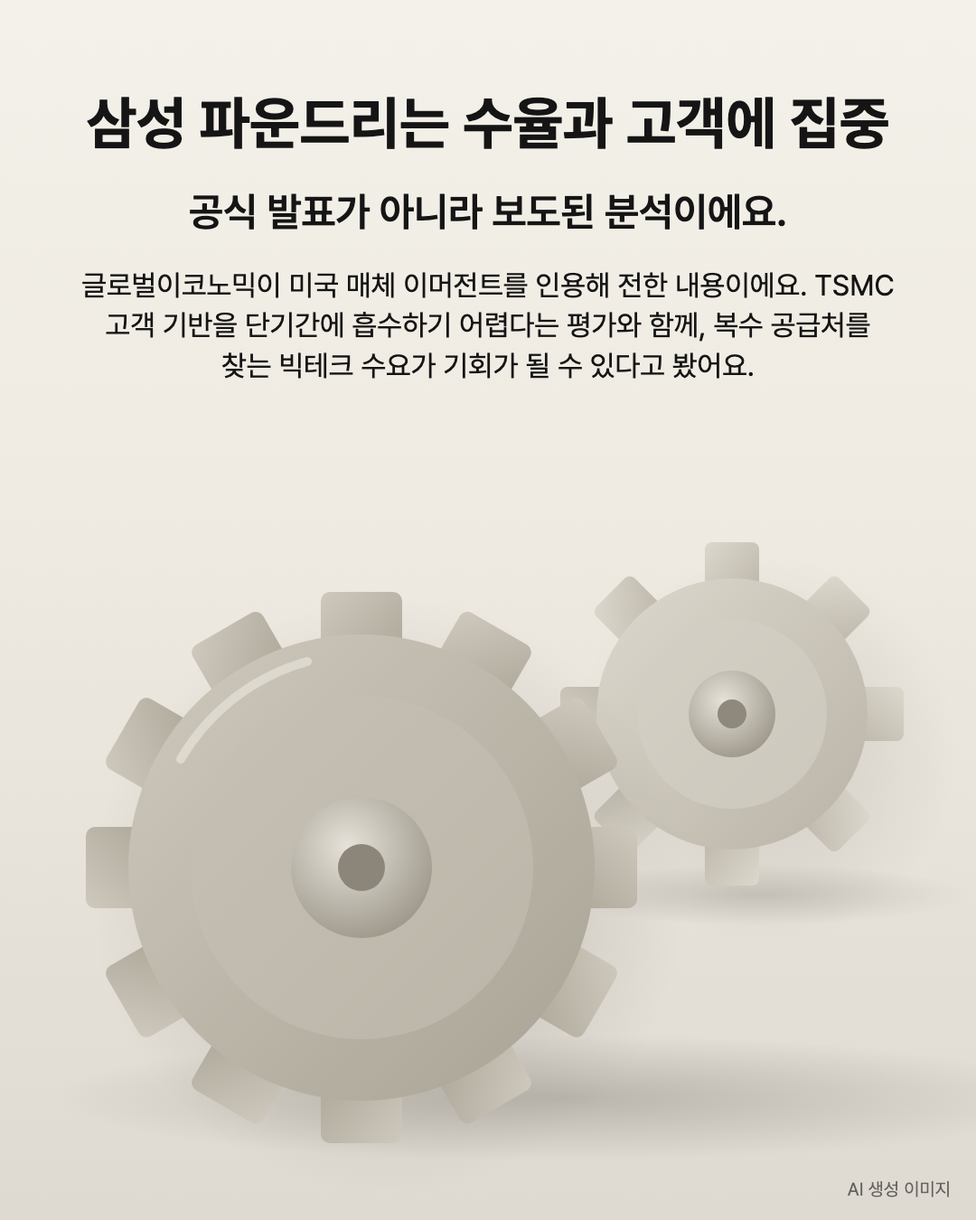
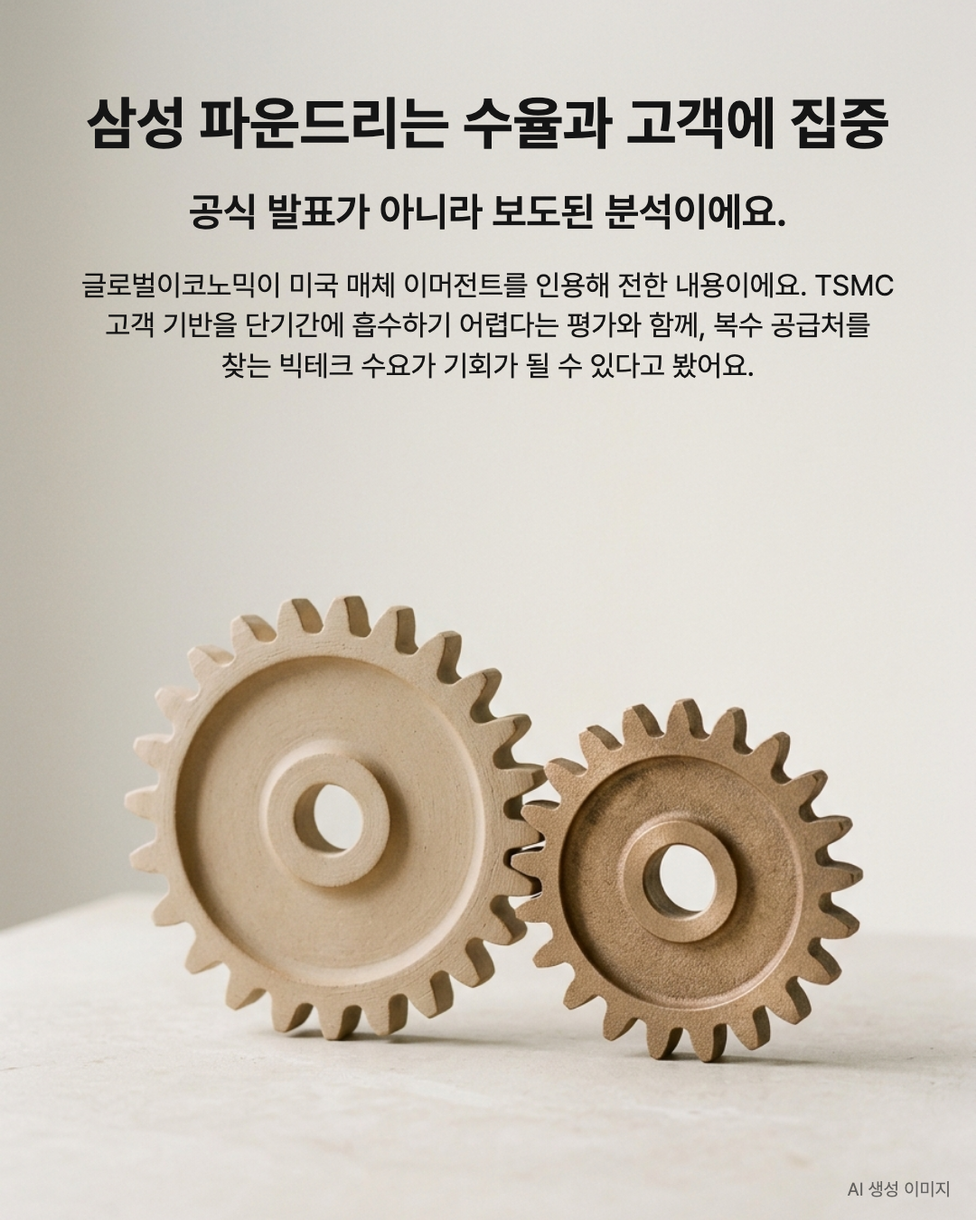
docs(card-news): README 카드 예시 맨 위에 지원사업·공모전, 반도체 5·6장 agy 그림으로 교체

diff --git a/submission/results/cards/support/image-credits.md b/submission/results/cards/support/image-credits.md
@@ -1,0 +1,100 @@
+# 이미지 사용 기록 — IT,AI 공모와 지원 사업
+
+- 결과 버전: v6
+- 배경 그림은 모두 생성 이미지예요. 실제 제품 화면이나 사건 사진이 아니에요. 생성 이미지라고 해서 저작권 문제가 없다고 단정하지 않아요.
+- 카드 안 글자는 그림에 그려 넣지 않고 앱이 따로 올렸어요(Pretendard, SIL OFL 1.1).
+
+## 카드 1 (cards/card_01.png)
+- 출처 종류: 생성 이미지
+- 도구: agy 1.4.7
+- 만든 시각: 2026-10-26T21:52:14+09:00
+- 원본 형식·크기: jpeg 896×1200
+- agy 대화 ID(앞 8자리): 67c2c7cf
+- 카드 안 표기: 오른쪽 아래 "AI 생성 이미지"
+- 요청 문장:
+
+    내장 이미지 생성 도구로 카드뉴스 배경 그림 한 장을 만들어 주세요 (카드 1/5).
+    - 명령을 실행하지 말고 이미지 생성 도구만 바로 쓰세요. 폴더나 파일을 확인할 필요 없어요.
+    - 세로 4:5 비율이에요.
+    - 장면: 책상 위에 열린 노트북 하나와 그 옆의 작은 새싹 화분을 비스듬한 각도로 가까이 잡은 구도, 앞쪽 물건은 크게 뒤쪽은 멀리 보이게 배치, 글자를 올릴 빈 공간은 상단
+    - 모든 카드 공통 그림체: 잡지 화보 같은 정물 사진. 밝은 아이보리·연회색 배경에 물건 하나, 부드러운 자연광과 옅은 그림자, 채도 낮은 중성색, 장식 없는 넉넉한 여백
+    - 글자를 올릴 자리: 화면 위쪽 약 40%는 비워 두고 단순한 배경만 두세요.
+    - 그림 안에 글자·숫자·로고·워터마크를 넣지 마세요.
+    - 실제 제품 화면, 실존 인물, 보도 사진처럼 보이지 않게 그려 주세요.
+    - 만든 파일을 다른 곳으로 옮기거나 복사하지 마세요.
+
+## 카드 2 (cards/card_02.png)
+- 출처 종류: 생성 이미지
+- 도구: agy 1.4.7
+- 만든 시각: 2026-10-26T16:21:02+09:00
+- 원본 형식·크기: jpeg 896×1200
+- agy 대화 ID(앞 8자리): 607beb4c
+- 카드 안 표기: 오른쪽 아래 "AI 생성 이미지"
+- 요청 문장:
+
+    내장 이미지 생성 도구로 카드뉴스 배경 그림 한 장을 만들어 주세요 (카드 2/5).
+    - 명령을 실행하지 말고 이미지 생성 도구만 바로 쓰세요. 폴더나 파일을 확인할 필요 없어요.
+    - 세로 4:5 비율이에요.
+    - 장면: 로켓 모형 하나를 아래쪽에 크게 놓은 구도, 글자를 올릴 빈 공간은 상단
+    - 모든 카드 공통 그림체: 잡지 화보 같은 정물 사진. 밝은 아이보리·연회색 배경에 물건 하나, 부드러운 자연광과 옅은 그림자, 채도 낮은 중성색, 장식 없는 넉넉한 여백
+    - 글자를 올릴 자리: 화면 위쪽 약 40%는 비워 두고 단순한 배경만 두세요.
+    - 그림 안에 글자·숫자·로고·워터마크를 넣지 마세요.
+    - 실제 제품 화면, 실존 인물, 보도 사진처럼 보이지 않게 그려 주세요.
+    - 만든 파일을 다른 곳으로 옮기거나 복사하지 마세요.
+
+## 카드 3 (cards/card_03.png)
+- 출처 종류: 생성 이미지
+- 도구: agy 1.4.7
+- 만든 시각: 2026-10-26T21:53:21+09:00
+- 원본 형식·크기: jpeg 896×1200
+- agy 대화 ID(앞 8자리): f7e1a1f2
+- 카드 안 표기: 오른쪽 아래 "AI 생성 이미지"
+- 요청 문장:
+
+    내장 이미지 생성 도구로 카드뉴스 배경 그림 한 장을 만들어 주세요 (카드 3/5).
+    - 명령을 실행하지 말고 이미지 생성 도구만 바로 쓰세요. 폴더나 파일을 확인할 필요 없어요.
+    - 세로 4:5 비율이에요.
+    - 장면: 회로 무늬가 새겨진 두께감 있는 칩 하나와 그 옆에 놓인 연필 한 자루를 낮은 각도에서 가까이 잡은 구도, 칩은 하단 앞쪽에 배치, 글자를 올릴 빈 공간은 상단
+    - 모든 카드 공통 그림체: 잡지 화보 같은 정물 사진. 밝은 아이보리·연회색 배경에 물건 하나, 부드러운 자연광과 옅은 그림자, 채도 낮은 중성색, 장식 없는 넉넉한 여백
+    - 글자를 올릴 자리: 화면 위쪽 약 40%는 비워 두고 단순한 배경만 두세요.
+    - 그림 안에 글자·숫자·로고·워터마크를 넣지 마세요.
+    - 실제 제품 화면, 실존 인물, 보도 사진처럼 보이지 않게 그려 주세요.
+    - 만든 파일을 다른 곳으로 옮기거나 복사하지 마세요.
+
+## 카드 4 (cards/card_04.png)
+- 출처 종류: 생성 이미지
+- 도구: agy 1.4.7
+- 만든 시각: 2026-10-26T21:54:17+09:00
+- 원본 형식·크기: jpeg 896×1200
+- agy 대화 ID(앞 8자리): f391c89c
+- 카드 안 표기: 오른쪽 아래 "AI 생성 이미지"
+- 요청 문장:
+
+    내장 이미지 생성 도구로 카드뉴스 배경 그림 한 장을 만들어 주세요 (카드 4/5).
+    - 명령을 실행하지 말고 이미지 생성 도구만 바로 쓰세요. 폴더나 파일을 확인할 필요 없어요.
+    - 세로 4:5 비율이에요.
+    - 장면: 서랍이 여러 칸인 캐비닛 하나를 비스듬한 각도에서 보고 서랍 한두 칸이 앞으로 열려 있는 구도, 캐비닛은 아래쪽에 배치, 글자를 올릴 빈 공간은 상단
+    - 모든 카드 공통 그림체: 잡지 화보 같은 정물 사진. 밝은 아이보리·연회색 배경에 물건 하나, 부드러운 자연광과 옅은 그림자, 채도 낮은 중성색, 장식 없는 넉넉한 여백
+    - 글자를 올릴 자리: 화면 위쪽 약 40%는 비워 두고 단순한 배경만 두세요.
+    - 그림 안에 글자·숫자·로고·워터마크를 넣지 마세요.
+    - 실제 제품 화면, 실존 인물, 보도 사진처럼 보이지 않게 그려 주세요.
+    - 만든 파일을 다른 곳으로 옮기거나 복사하지 마세요.
+
+## 카드 5 (cards/card_05.png)
+- 출처 종류: 생성 이미지
+- 도구: agy 1.4.7
+- 만든 시각: 2026-10-26T21:55:15+09:00
+- 원본 형식·크기: jpeg 896×1200
+- agy 대화 ID(앞 8자리): fcd5026c
+- 카드 안 표기: 오른쪽 아래 "AI 생성 이미지"
+- 요청 문장:
+
+    내장 이미지 생성 도구로 카드뉴스 배경 그림 한 장을 만들어 주세요 (카드 5/5).
+    - 명령을 실행하지 말고 이미지 생성 도구만 바로 쓰세요. 폴더나 파일을 확인할 필요 없어요.
+    - 세로 4:5 비율이에요.
+    - 장면: 체크 표시가 있는 클립보드 하나를 약간 기울여 한쪽에 가까이 놓고 뒤쪽은 멀리 흐릿하게 보이는 구도, 글자를 올릴 빈 공간은 중앙
+    - 모든 카드 공통 그림체: 잡지 화보 같은 정물 사진. 밝은 아이보리·연회색 배경에 물건 하나, 부드러운 자연광과 옅은 그림자, 채도 낮은 중성색, 장식 없는 넉넉한 여백
+    - 글자를 올릴 자리: 화면 가운데 약 40%는 비워 두고 단순한 배경만 두세요.
+    - 그림 안에 글자·숫자·로고·워터마크를 넣지 마세요.
+    - 실제 제품 화면, 실존 인물, 보도 사진처럼 보이지 않게 그려 주세요.
+    - 만든 파일을 다른 곳으로 옮기거나 복사하지 마세요.

diff --git a/submission/results/cards/support/sources.md b/submission/results/cards/support/sources.md
@@ -1,0 +1,61 @@
+# 출처 기록 — IT,AI 공모와 지원 사업
+
+- 조사 기준 시각: 2026-10-26T16:07:42+09:00
+- 조사 범위: 오늘부터 6개월 (2026-10-26 ~ 2027-04-26)
+- 결과 버전: v6 · 최종 승인: 2026-10-26T21:55:56+09:00
+- '엔진이 열어 봄'은 조사 엔진이 그 주소를 실제로 열어 내용을 받았다는 뜻이에요. 지금도 열리는지는 확인하지 않았어요.
+
+## 카드 1. 창업·AI 지원사업 3건 (표지)
+- 파일: cards/card_01.png
+- 핵심 문장: 딥테크팁스 최대 15억 원부터 국비 AI 교육까지
+- 문구: 스토리보드에서 고쳤어요 (문구는 그대로 두고, 표지 그림을 입체감이 느껴지는 구도로 다시 그리도록 바꿨어요.)
+- 근거: [K-Startup 2026년 팁스(TIPS) 창업기업 지원계획 수정 공고](https://www.k-startup.go.kr/web/contents/bizpbanc-ongoing.do?schM=view&pbancSn=176076) — 공식, 게시일 미확인, 엔진이 열어 봄
+- 근거: [K-Startup 국민대학교 청년도약 인재양성 부트캠프 참가자 모집](https://www.k-startup.go.kr/web/contents/bizpbanc-ongoing.do?schM=view&pbancSn=179559) — 공식, 게시일 미확인, 엔진이 열어 봄
+- 근거: [K-Startup 2026년 중앙부처 및 지자체 창업지원사업 통합공고](https://www.k-startup.go.kr/web/contents/bizpbanc-ongoing.do?schM=view&pbancSn=175783) — 공식, 게시일 미확인, 엔진이 열어 봄
+
+## 카드 2. 2026년 팁스(TIPS) 창업기업 지원 (본문)
+- 파일: cards/card_02.png
+- 핵심 문장: 팁스 최대 8억 원 · 딥테크팁스 최대 15억 원 · 연계사업 각 최대 1.5억 원
+- 본문: 대상: 팁스 운영사의 투자·추천을 받은 (예비)창업기업
+마감: 12월 31일 18:00 (D-66 · 10/26 기준)
+신청: K-Startup 온라인 접수
+- 문구: 스토리보드 그대로
+- 마감: 2026-12-31 (confirmed) · 근거: K-Startup 공고 신청기간 2026.03.19 09:00 ~ 2026.12.31 18:00
+- 금액: 팁스 최대 8억 원 · 딥테크팁스 최대 15억 원 · 연계사업 각 최대 1.5억 원 · 신청: K-Startup 온라인 접수
+- 공식 공고문: https://www.k-startup.go.kr/web/contents/bizpbanc-ongoing.do?schM=view&pbancSn=176076
+- 근거: [K-Startup 2026년 팁스(TIPS) 창업기업 지원계획 수정 공고](https://www.k-startup.go.kr/web/contents/bizpbanc-ongoing.do?schM=view&pbancSn=176076) — 공식, 게시일 미확인, 엔진이 열어 봄
+
+## 카드 3. 국민대 청년도약 AI 부트캠프 (본문)
+- 파일: cards/card_03.png
+- 핵심 문장: 교육비 전액 국비 · 완주 장학금 최대 20만 원 · 최대 200만 원 규모 혜택
+- 본문: 대상: 만 19~34세 미취업 청년(취준생·예비창업자·장기휴학생), 재학생·재직자 제외
+마감: 11월 19일 23:59 (D-24 · 10/26 기준)
+신청: 국민대 AX벤처 실전인재양성 사업단 온라인 접수(axkookmin.com)
+- 문구: 스토리보드에서 고쳤어요 (문구는 그대로 두고, 칩과 연필 그림을 입체감이 느껴지는 구도로 다시 그리도록 바꿨어요.)
+- 마감: 2026-11-19 (confirmed) · 근거: K-Startup 공고 신청기간 2026.10.19 09:00 ~ 2026.11.19 23:59
+- 금액: 교육비 전액 국비 · 완주 장학금 최대 20만 원 · 최대 200만 원 규모 혜택 · 신청: 국민대 AX벤처 실전인재양성 사업단 온라인 접수(axkookmin.com)
+- 공식 공고문: https://www.k-startup.go.kr/web/contents/bizpbanc-ongoing.do?schM=view&pbancSn=179559
+- 근거: [K-Startup 국민대학교 청년도약 인재양성 부트캠프 참가자 모집](https://www.k-startup.go.kr/web/contents/bizpbanc-ongoing.do?schM=view&pbancSn=179559) — 공식, 게시일 미확인, 엔진이 열어 봄
+
+## 카드 4. 2026 창업지원사업 통합공고 (본문)
+- 파일: cards/card_04.png
+- 핵심 문장: 각 지원사업 모집 공고문 참고
+- 본문: 대상: 대상·업력 '전체' 표기, 세부 조건은 각 사업 공고문 기준
+마감: 12월 31일 23:59 (D-66 · 10/26 기준)
+신청: K-Startup에서 개별 사업 공고문별로 신청
+- 문구: 스토리보드에서 고쳤어요 (문구는 그대로 두고, 캐비닛 그림을 서랍이 열려 깊이가 보이는 입체적 구도로 다시 그리도록 바꿨어요.)
+- 마감: 2026-12-31 (confirmed) · 근거: K-Startup 통합공고 게시기간 2025.12.19 13:00 ~ 2026.12.31 23:59
+- 금액: 각 지원사업 모집 공고문 참고 · 신청: K-Startup에서 개별 사업 공고문별로 신청
+- 공식 공고문: https://www.k-startup.go.kr/web/contents/bizpbanc-ongoing.do?schM=view&pbancSn=175783
+- 근거: [K-Startup 2026년 중앙부처 및 지자체 창업지원사업 통합공고](https://www.k-startup.go.kr/web/contents/bizpbanc-ongoing.do?schM=view&pbancSn=175783) — 공식, 게시일 미확인, 엔진이 열어 봄
+
+## 카드 5. 마감순 정리 (요약)
+- 파일: cards/card_05.png
+- 핵심 문장: 지금 지원 가능 3 · 곧 열릴 예정 0
+- 본문: 11/19 마감 · 국민대 청년도약 AI 부트캠프
+12/31 마감 · 2026년 팁스(TIPS) 창업기업…
+12/31 마감 · 2026 창업지원사업 통합공고
+- 문구: 스토리보드에서 고쳤어요 (문구는 그대로 두고, 클립보드 그림을 입체감이 느껴지는 구도로 다시 그리도록 바꿨어요.)
+- 근거: [K-Startup 2026년 팁스(TIPS) 창업기업 지원계획 수정 공고](https://www.k-startup.go.kr/web/contents/bizpbanc-ongoing.do?schM=view&pbancSn=176076) — 공식, 게시일 미확인, 엔진이 열어 봄
+- 근거: [K-Startup 국민대학교 청년도약 인재양성 부트캠프 참가자 모집](https://www.k-startup.go.kr/web/contents/bizpbanc-ongoing.do?schM=view&pbancSn=179559) — 공식, 게시일 미확인, 엔진이 열어 봄
+- 근거: [K-Startup 2026년 중앙부처 및 지자체 창업지원사업 통합공고](https://www.k-startup.go.kr/web/contents/bizpbanc-ongoing.do?schM=view&pbancSn=175783) — 공식, 게시일 미확인, 엔진이 열어 봄

diff --git a/submission/results/cards/semiconductor-news/image-credits.md b/submission/results/cards/semiconductor-news/image-credits.md
@@ -1,6 +1,6 @@
 # 이미지 사용 기록 — 국내 반도체 최신뉴스
 
-- 결과 버전: v4
+- 결과 버전: v7
 - 배경 그림은 모두 생성 이미지예요. 실제 제품 화면이나 사건 사진이 아니에요. 생성 이미지라고 해서 저작권 문제가 없다고 단정하지 않아요.
 - 카드 안 글자는 그림에 그려 넣지 않고 앱이 따로 올렸어요(Pretendard, SIL OFL 1.1).
 
@@ -82,38 +82,38 @@
 
 ## 카드 5 (cards/card_05.png)
 - 출처 종류: 생성 이미지
-- 도구: Claude CLI (sonnet, SVG)
-- 만든 시각: 2026-10-26T15:03:35+09:00
-- 원본 형식·크기: svg 1080×1350
-- agy로 못 만들어 Claude CLI가 SVG로 대신 그렸어요: agy가 끝났는데 새로 만든 그림 파일을 찾지 못했어요.
+- 도구: agy 1.4.7
+- 만든 시각: 2026-10-26T21:56:20+09:00
+- 원본 형식·크기: jpeg 896×1200
+- agy 대화 ID(앞 8자리): 70a119cc
 - 카드 안 표기: 오른쪽 아래 "AI 생성 이미지"
 - 요청 문장:
 
-    설명용 카드뉴스 배경 그림을 SVG 코드로 그려 주세요 (카드 5/6).
-    - 결과의 svg 필드에 <svg>…</svg> 코드 하나만 넣어요.
-    - viewBox="0 0 1080 1350" (세로 4:5).
+    내장 이미지 생성 도구로 카드뉴스 배경 그림 한 장을 만들어 주세요 (카드 5/6).
+    - 명령을 실행하지 말고 이미지 생성 도구만 바로 쓰세요. 폴더나 파일을 확인할 필요 없어요.
+    - 세로 4:5 비율이에요.
     - 장면: 앞서 놓인 큰 톱니바퀴 하나와 뒤에 놓인 작은 톱니바퀴 하나가 맞물리려는 구도. 글자를 올릴 빈 공간은 위쪽.
     - 모든 카드 공통 그림체: 잡지 화보 같은 정물 사진. 밝은 아이보리·연회색 배경에 물건 하나, 부드러운 자연광과 옅은 그림자, 채도 낮은 중성색, 장식 없는 넉넉한 여백
-    - 글자를 올릴 자리: 화면 위쪽 약 40%는 비워 두고 단색이나 부드러운 그라디언트만 두세요.
-    - 도형(rect·circle·ellipse·path·polygon·line)과 그라디언트만 써요. <text>, 글자·숫자 모양, <image>, <script>, 외부 주소는 쓰지 마세요.
-    - SVG라서 사진은 흉내 내지 말고, 같은 색감의 단순한 물건 실루엣과 부드러운 그림자로 그려 주세요.
+    - 글자를 올릴 자리: 화면 위쪽 약 40%는 비워 두고 단순한 배경만 두세요.
+    - 그림 안에 글자·숫자·로고·워터마크를 넣지 마세요.
     - 실제 제품 화면, 실존 인물, 보도 사진처럼 보이지 않게 그려 주세요.
+    - 만든 파일을 다른 곳으로 옮기거나 복사하지 마세요.
 
 ## 카드 6 (cards/card_06.png)
 - 출처 종류: 생성 이미지
-- 도구: Claude CLI (sonnet, SVG)
-- 만든 시각: 2026-10-26T15:10:33+09:00
-- 원본 형식·크기: svg 1080×1350
-- agy로 못 만들어 Claude CLI가 SVG로 대신 그렸어요: agy가 끝났는데 새로 만든 그림 파일을 찾지 못했어요.
+- 도구: agy 1.4.7
+- 만든 시각: 2026-10-26T21:57:19+09:00
+- 원본 형식·크기: jpeg 896×1200
+- agy 대화 ID(앞 8자리): a2ba4ceb
 - 카드 안 표기: 오른쪽 아래 "AI 생성 이미지"
 - 요청 문장:
 
-    설명용 카드뉴스 배경 그림을 SVG 코드로 그려 주세요 (카드 6/6).
-    - 결과의 svg 필드에 <svg>…</svg> 코드 하나만 넣어요.
-    - viewBox="0 0 1080 1350" (세로 4:5).
+    내장 이미지 생성 도구로 카드뉴스 배경 그림 한 장을 만들어 주세요 (카드 6/6).
+    - 명령을 실행하지 말고 이미지 생성 도구만 바로 쓰세요. 폴더나 파일을 확인할 필요 없어요.
+    - 세로 4:5 비율이에요.
     - 장면: 양팔 저울 하나. 한쪽 접시에는 상자가 높이 쌓여 있고 다른 쪽은 살짝 떠 있는 구도. 글자를 올릴 빈 공간은 가운데 위쪽.
     - 모든 카드 공통 그림체: 잡지 화보 같은 정물 사진. 밝은 아이보리·연회색 배경에 물건 하나, 부드러운 자연광과 옅은 그림자, 채도 낮은 중성색, 장식 없는 넉넉한 여백
-    - 글자를 올릴 자리: 화면 가운데 약 40%는 비워 두고 단색이나 부드러운 그라디언트만 두세요.
-    - 도형(rect·circle·ellipse·path·polygon·line)과 그라디언트만 써요. <text>, 글자·숫자 모양, <image>, <script>, 외부 주소는 쓰지 마세요.
-    - SVG라서 사진은 흉내 내지 말고, 같은 색감의 단순한 물건 실루엣과 부드러운 그림자로 그려 주세요.
+    - 글자를 올릴 자리: 화면 가운데 약 40%는 비워 두고 단순한 배경만 두세요.
+    - 그림 안에 글자·숫자·로고·워터마크를 넣지 마세요.
     - 실제 제품 화면, 실존 인물, 보도 사진처럼 보이지 않게 그려 주세요.
+    - 만든 파일을 다른 곳으로 옮기거나 복사하지 마세요.

diff --git a/submission/results/cards/support/verify.md b/submission/results/cards/support/verify.md
@@ -1,0 +1,35 @@
+# 내보낸 파일 검사
+
+- 대상: cardnews_prj_f48d71b6ed7a_v6.zip
+- 통과 24 · 실패 0 · 사용자 확인 필요 3
+- 확인하지 못한 항목은 통과로 적지 않았어요.
+
+| 항목 | 대상 | 결과 | 내용 | 확인할 것 |
+|---|---|---|---|---|
+| 누락 | 전체 | 통과 | 카드 PNG 5장, sources.md, image-credits.md가 모두 있어요. |  |
+| 크기 | 카드 1 | 통과 | 1080×1350 PNG예요. |  |
+| 글자 잘림 | 카드 1 | 통과 | 렌더링 때 넘침이 없었고, ZIP 안 PNG가 그 렌더링 파일과 같아요. |  |
+| 출처 | 카드 1 | 통과 | 근거 3개 모두 조사 기록에 있고 엔진이 실제로 열어 봤어요. |  |
+| 크기 | 카드 2 | 통과 | 1080×1350 PNG예요. |  |
+| 글자 잘림 | 카드 2 | 통과 | 렌더링 때 넘침이 없었고, ZIP 안 PNG가 그 렌더링 파일과 같아요. |  |
+| 출처 | 카드 2 | 통과 | 근거 1개 모두 조사 기록에 있고 엔진이 실제로 열어 봤어요. |  |
+| 마감일 | 카드 2 | 통과 | 마감일(2026-12-31)을 공식 공고문(엔진이 열어 봄)에서 확인했고 오늘부터 6개월 안이에요. |  |
+| D-day | 카드 2 | 통과 | D-66: 앱이 2026-10-26 기준으로 계산한 값과 같아요. |  |
+| 금액 | 카드 2 | 통과 | 금액 문구(팁스 최대 8억 원 · 딥테크팁스 최대 15억 원 · 연계사업 각 최대 1.5억 원)가 엔진이 연 공식 공고문의 확인한 사실에 있어요. |  |
+| 크기 | 카드 3 | 통과 | 1080×1350 PNG예요. |  |
+| 글자 잘림 | 카드 3 | 통과 | 렌더링 때 넘침이 없었고, ZIP 안 PNG가 그 렌더링 파일과 같아요. |  |
+| 출처 | 카드 3 | 통과 | 근거 1개 모두 조사 기록에 있고 엔진이 실제로 열어 봤어요. |  |
+| 마감일 | 카드 3 | 통과 | 마감일(2026-11-19)을 공식 공고문(엔진이 열어 봄)에서 확인했고 오늘부터 6개월 안이에요. |  |
+| D-day | 카드 3 | 통과 | D-24: 앱이 2026-10-26 기준으로 계산한 값과 같아요. |  |
+| 금액 | 카드 3 | 통과 | 금액 문구(교육비 전액 국비 · 완주 장학금 최대 20만 원 · 최대 200만 원 규모 혜택)가 엔진이 연 공식 공고문의 확인한 사실에 있어요. |  |
+| 크기 | 카드 4 | 통과 | 1080×1350 PNG예요. |  |
+| 글자 잘림 | 카드 4 | 통과 | 렌더링 때 넘침이 없었고, ZIP 안 PNG가 그 렌더링 파일과 같아요. |  |
+| 출처 | 카드 4 | 통과 | 근거 1개 모두 조사 기록에 있고 엔진이 실제로 열어 봤어요. |  |
+| 마감일 | 카드 4 | 통과 | 마감일(2026-12-31)을 공식 공고문(엔진이 열어 봄)에서 확인했고 오늘부터 6개월 안이에요. |  |
+| D-day | 카드 4 | 통과 | D-66: 앱이 2026-10-26 기준으로 계산한 값과 같아요. |  |
+| 금액 | 카드 4 | 사용자 확인 필요 | 금액 문구(각 지원사업 모집 공고문 참고)를 엔진이 연 공식 공고문의 확인한 사실에서 찾지 못했어요. | 공식 공고문에서 금액을 확인해 주세요. |
+| 크기 | 카드 5 | 통과 | 1080×1350 PNG예요. |  |
+| 글자 잘림 | 카드 5 | 통과 | 렌더링 때 넘침이 없었고, ZIP 안 PNG가 그 렌더링 파일과 같아요. |  |
+| 출처 | 카드 5 | 통과 | 근거 3개 모두 조사 기록에 있고 엔진이 실제로 열어 봤어요. |  |
+| 출처 | 전체 | 사용자 확인 필요 | 카드 문구가 원문 내용과 맞는지는 사람이 확인하지 않았어요. 앱은 근거 주소가 조사 기록에 있고 엔진이 열어 봤는지만 봐요. | 카드마다 근거 링크를 열어 숫자·날짜·조건이 원문과 같은지 확인해 주세요. |
+| 출처 | 전체 | 사용자 확인 필요 | 원문 링크가 지금도 열리는지는 확인하지 않았어요(인터넷에 다시 접속하지 않음). | sources.md의 링크를 몇 개 열어 보고, 바뀌거나 사라진 글이 없는지 확인해 주세요. |

diff --git a/README.md b/README.md
@@ -2,7 +2,12 @@
 
 ## 만든 카드 예시
 
-실제 Claude CLI(조사·편집)와 agy(배경 그림)로 만들고, 최종 승인해 내보낸 카드예요. 카드 1장은 1080×1350 PNG이고, 글자는 그림에 그리지 않고 앱이 Pretendard로 따로 올렸어요. 카드를 누르면 원본 크기로 볼 수 있어요.
+지원사업·공모전 마감 카드와 최신뉴스 카드를 실제 Claude CLI(조사·편집)와 agy(배경 그림)로 만들고, 최종 승인해 내보낸 결과예요. 카드 1장은 1080×1350 PNG이고, 글자는 그림에 그리지 않고 앱이 Pretendard로 따로 올렸어요. 카드를 누르면 원본 크기로 볼 수 있어요.
+
+### 지원사업·공모전 (STEP 13 확장, 2026-10-26, 5장)
+<img src="submission/results/cards/support/card_01.png" width="180" alt="카드 1"> <img src="submission/results/cards/support/card_02.png" width="180" alt="카드 2"> <img src="submission/results/cards/support/card_03.png" width="180" alt="카드 3"> <img src="submission/results/cards/support/card_04.png" width="180" alt="카드 4"> <img src="submission/results/cards/support/card_05.png" width="180" alt="카드 5">
+
+출처·이미지 기록·검사 결과: [sources.md](submission/results/cards/support/sources.md) · [image-credits.md](submission/results/cards/support/image-credits.md) · [verify.md](submission/results/cards/support/verify.md) (통과 24 · 실패 0 · 확인 필요 3)
 
 ### AI 최신뉴스 (2026-10-26, 7장)
 <img src="submission/results/cards/ai-news/card_01.png" width="180" alt="카드 1"> <img src="submission/results/cards/ai-news/card_02.png" width="180" alt="카드 2"> <img src="submission/results/cards/ai-news/card_03.png" width="180" alt="카드 3"> <img src="submission/results/cards/ai-news/card_04.png" width="180" alt="카드 4"> <img src="submission/results/cards/ai-news/card_05.png" width="180" alt="카드 5"> <img src="submission/results/cards/ai-news/card_06.png" width="180" alt="카드 6"> <img src="submission/results/cards/ai-news/card_07.png" width="180" alt="카드 7">
@@ -13,8 +18,6 @@
 <img src="submission/results/cards/semiconductor-news/card_01.png" width="180" alt="카드 1"> <img src="submission/results/cards/semiconductor-news/card_02.png" width="180" alt="카드 2"> <img src="submission/results/cards/semiconductor-news/card_03.png" width="180" alt="카드 3"> <img src="submission/results/cards/semiconductor-news/card_04.png" width="180" alt="카드 4"> <img src="submission/results/cards/semiconductor-news/card_05.png" width="180" alt="카드 5"> <img src="submission/results/cards/semiconductor-news/card_06.png" width="180" alt="카드 6">
 
 출처·이미지 기록·검사 결과: [sources.md](submission/results/cards/semiconductor-news/sources.md) · [image-credits.md](submission/results/cards/semiconductor-news/image-credits.md) · [verify.md](submission/results/cards/semiconductor-news/verify.md) (통과 20 · 실패 0 · 확인 필요 8)
-
-> 5·6장은 만들 때 agy 그림 할당량이 바닥나서, agy 대신 Claude CLI가 그린 평면 SVG 그림이에요(image-credits.md에 적혀 있어요). 1~4장이 agy 그림이에요.
 
 ## 앱 실행하기
 

diff --git a/submission/README.md b/submission/README.md
@@ -32,10 +32,11 @@
 
 | 파일 | 내용 |
 |---|---|
+| `results/cards/support/` | 지원사업·공모전 마감 최종 카드 PNG 5장 + sources.md·image-credits.md·verify.md |
 | `results/research-prj_137e35bf7e7b.json` | 실제 조사 → 심층 조사 → 스토리보드까지 간 프로젝트의 API 응답 (후보 7개, 조사 기록 2개, 스토리보드 6장) |
 | `results/research-prj_ba7c431b0193.json` | 출처 열어 봄 표시를 켠 뒤 실제 조사한 프로젝트의 API 응답 (후보 6개) |
 | `results/cards/ai-news/` | AI 최신뉴스 최종 카드 PNG 7장 + sources.md·image-credits.md·verify.md |
-| `results/cards/semiconductor-news/` | 국내 반도체 최신뉴스 최종 카드 PNG 6장 + 같은 기록 파일 (5·6장은 agy 할당량 소진으로 Claude CLI SVG 대신 그림) |
+| `results/cards/semiconductor-news/` | 국내 반도체 최신뉴스 최종 카드 PNG 6장 + 같은 기록 파일 |
 
 카드 미리보기는 앱 폴더 [README.md](../README.md#만든-카드-예시)에 있어요. ZIP은 카드 PNG와 같은 내용이라 용량 때문에 넣지 않았어요.
 

diff --git a/submission/results/cards/semiconductor-news/sources.md b/submission/results/cards/semiconductor-news/sources.md
@@ -2,7 +2,7 @@
 
 - 조사 기준 시각: 2026-10-26T14:46:12+09:00
 - 조사 기간: 최근 7일 (2026-10-19 ~ 2026-10-26)
-- 결과 버전: v4 · 최종 승인: 2026-10-26T15:16:43+09:00
+- 결과 버전: v7 · 최종 승인: 2026-10-26T21:58:35+09:00
 - '엔진이 열어 봄'은 조사 엔진이 그 주소를 실제로 열어 내용을 받았다는 뜻이에요. 지금도 열리는지는 확인하지 않았어요.
 
 ## 카드 1. 이번 주 국내 반도체 3가지 (표지)

diff --git a/submission/results/cards/semiconductor-news/verify.md b/submission/results/cards/semiconductor-news/verify.md
@@ -1,6 +1,6 @@
 # 내보낸 파일 검사
 
-- 대상: cardnews_prj_1f059dc86f67_v4.zip
+- 대상: cardnews_prj_1f059dc86f67_v7.zip
 - 통과 20 · 실패 0 · 사용자 확인 필요 8
 - 확인하지 못한 항목은 통과로 적지 않았어요.
 
